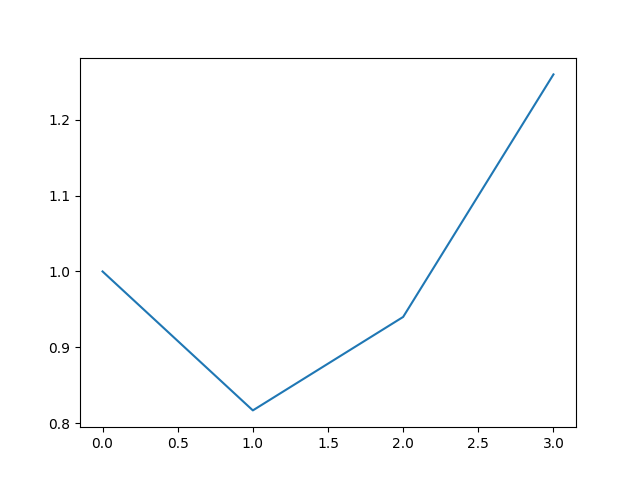
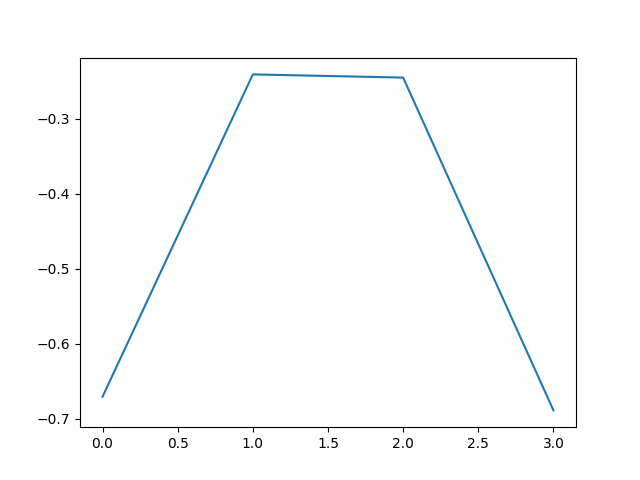
modified:   SAC_Walker_cumulative_reward_fig.png 	modified:   policy_learning_algorithms/__pycache__/soft_actor_critic.cpython-38.pyc 	modified:   policy_learning_algorithms/soft_actor_critic.py 	modified:   walker_trial_of_different_algorithms/__pycache__/walker_sac_training.cpython-38.pyc 	modifie

diff --git a/policy_learning_algorithms/soft_actor_critic.py b/policy_learning_algorithms/soft_actor_critic.py
@@ -602,14 +602,18 @@ class SoftActorCritic(OffPolicyLearningAlgorithm):
     def _compute_exponentiated_qval(self, batch_obs, batch_action_samples):
         # predicted q_val for each qnet of the shape [batch, num_samples]
         qnet1_exp_val = torch.cat([
-                                    self.qnet1(batch_obs, torch.squeeze(batch_single_sample, dim=1)) 
-                                    for batch_single_sample in torch.split(batch_action_samples, 1, dim=1)
+                                    self.qnet1(batch_obs, torch.squeeze(batch_action_samples[:, i, :], dim=1))
+                                    for i in range(batch_action_samples.shape[1])  
+                                    # self.qnet1(batch_obs, torch.squeeze(batch_single_sample, dim=1)) 
+                                    # for batch_single_sample in torch.split(batch_action_samples, 1, dim=1)
                                     ],
                                     dim=1
                                 )
         qnet2_exp_val = torch.cat([
-                                    self.qnet2(batch_obs, torch.squeeze(batch_single_sample, dim=1)) 
-                                    for batch_single_sample in torch.split(batch_action_samples, 1, dim=1)
+                                    self.qnet2(batch_obs, torch.squeeze(batch_action_samples[:, i, :], dim=1))
+                                    for i in range(batch_action_samples.shape[1])  
+                                    # self.qnet2(batch_obs, torch.squeeze(batch_single_sample, dim=1)) 
+                                    # for batch_single_sample in torch.split(batch_action_samples, 1, dim=1)
                                     ],
                                     dim=1
                                 )
@@ -625,16 +629,20 @@ class SoftActorCritic(OffPolicyLearningAlgorithm):
     def _compute_qnet_target(self, batch_rewards, batch_dones, batch_nextobs, batch_action_samples, batch_log_probs):
         qnet1_tar_preds = torch.cat(
                                 [
-                                    self.qnet1_tar(batch_nextobs, torch.squeeze(batch_single_sample, dim=1)) 
-                                    for batch_single_sample in torch.split(batch_action_samples, 1, dim=1)
+                                    self.qnet1_tar(batch_nextobs, torch.squeeze(batch_action_samples[:, i, :], dim=1))
+                                    for i in range(batch_action_samples.shape[1])  
+                                    # self.qnet1_tar(batch_nextobs, torch.squeeze(batch_single_sample, dim=1)) 
+                                    # for batch_single_sample in torch.split(batch_action_samples, 1, dim=1)
                                 ], 
                                 dim=1
                                 )
         # print("qnet1_tar_preds: ", qnet1_tar_preds, "\n", "qnet1_tar_preds.shape: ", qnet1_tar_preds.shape, "\n")
         qnet2_tar_preds = torch.cat(
                                 [
-                                    self.qnet2_tar(batch_nextobs, torch.squeeze(batch_single_sample, dim=1)) 
-                                    for batch_single_sample in torch.split(batch_action_samples, 1, dim=1)
+                                    self.qnet2_tar(batch_nextobs, torch.squeeze(batch_action_samples[:, i, :], dim=1))
+                                    for i in range(batch_action_samples.shape[1])  
+                                    # self.qnet2_tar(batch_nextobs, torch.squeeze(batch_single_sample, dim=1)) 
+                                    # for batch_single_sample in torch.split(batch_action_samples, 1, dim=1)
                                 ], 
                                 dim=1
                                 )

diff --git a/walker_trial_of_different_algorithms/walker_sac_training.py b/walker_trial_of_different_algorithms/walker_sac_training.py
@@ -36,7 +36,7 @@ learning_algorithm = SoftActorCritic(
     q_net_learning_rate=3e-4, 
     policy_learning_rate=1e-3, 
     discount=0.99, 
-    temperature=1,
+    temperature=30,
     observation_size=env.behavior_specs[behavior_name].observation_specs[0].shape[0],
     action_size=env.behavior_specs[behavior_name].action_spec.continuous_size, 
     update_qnet_every_N_gradient_steps=1000,
